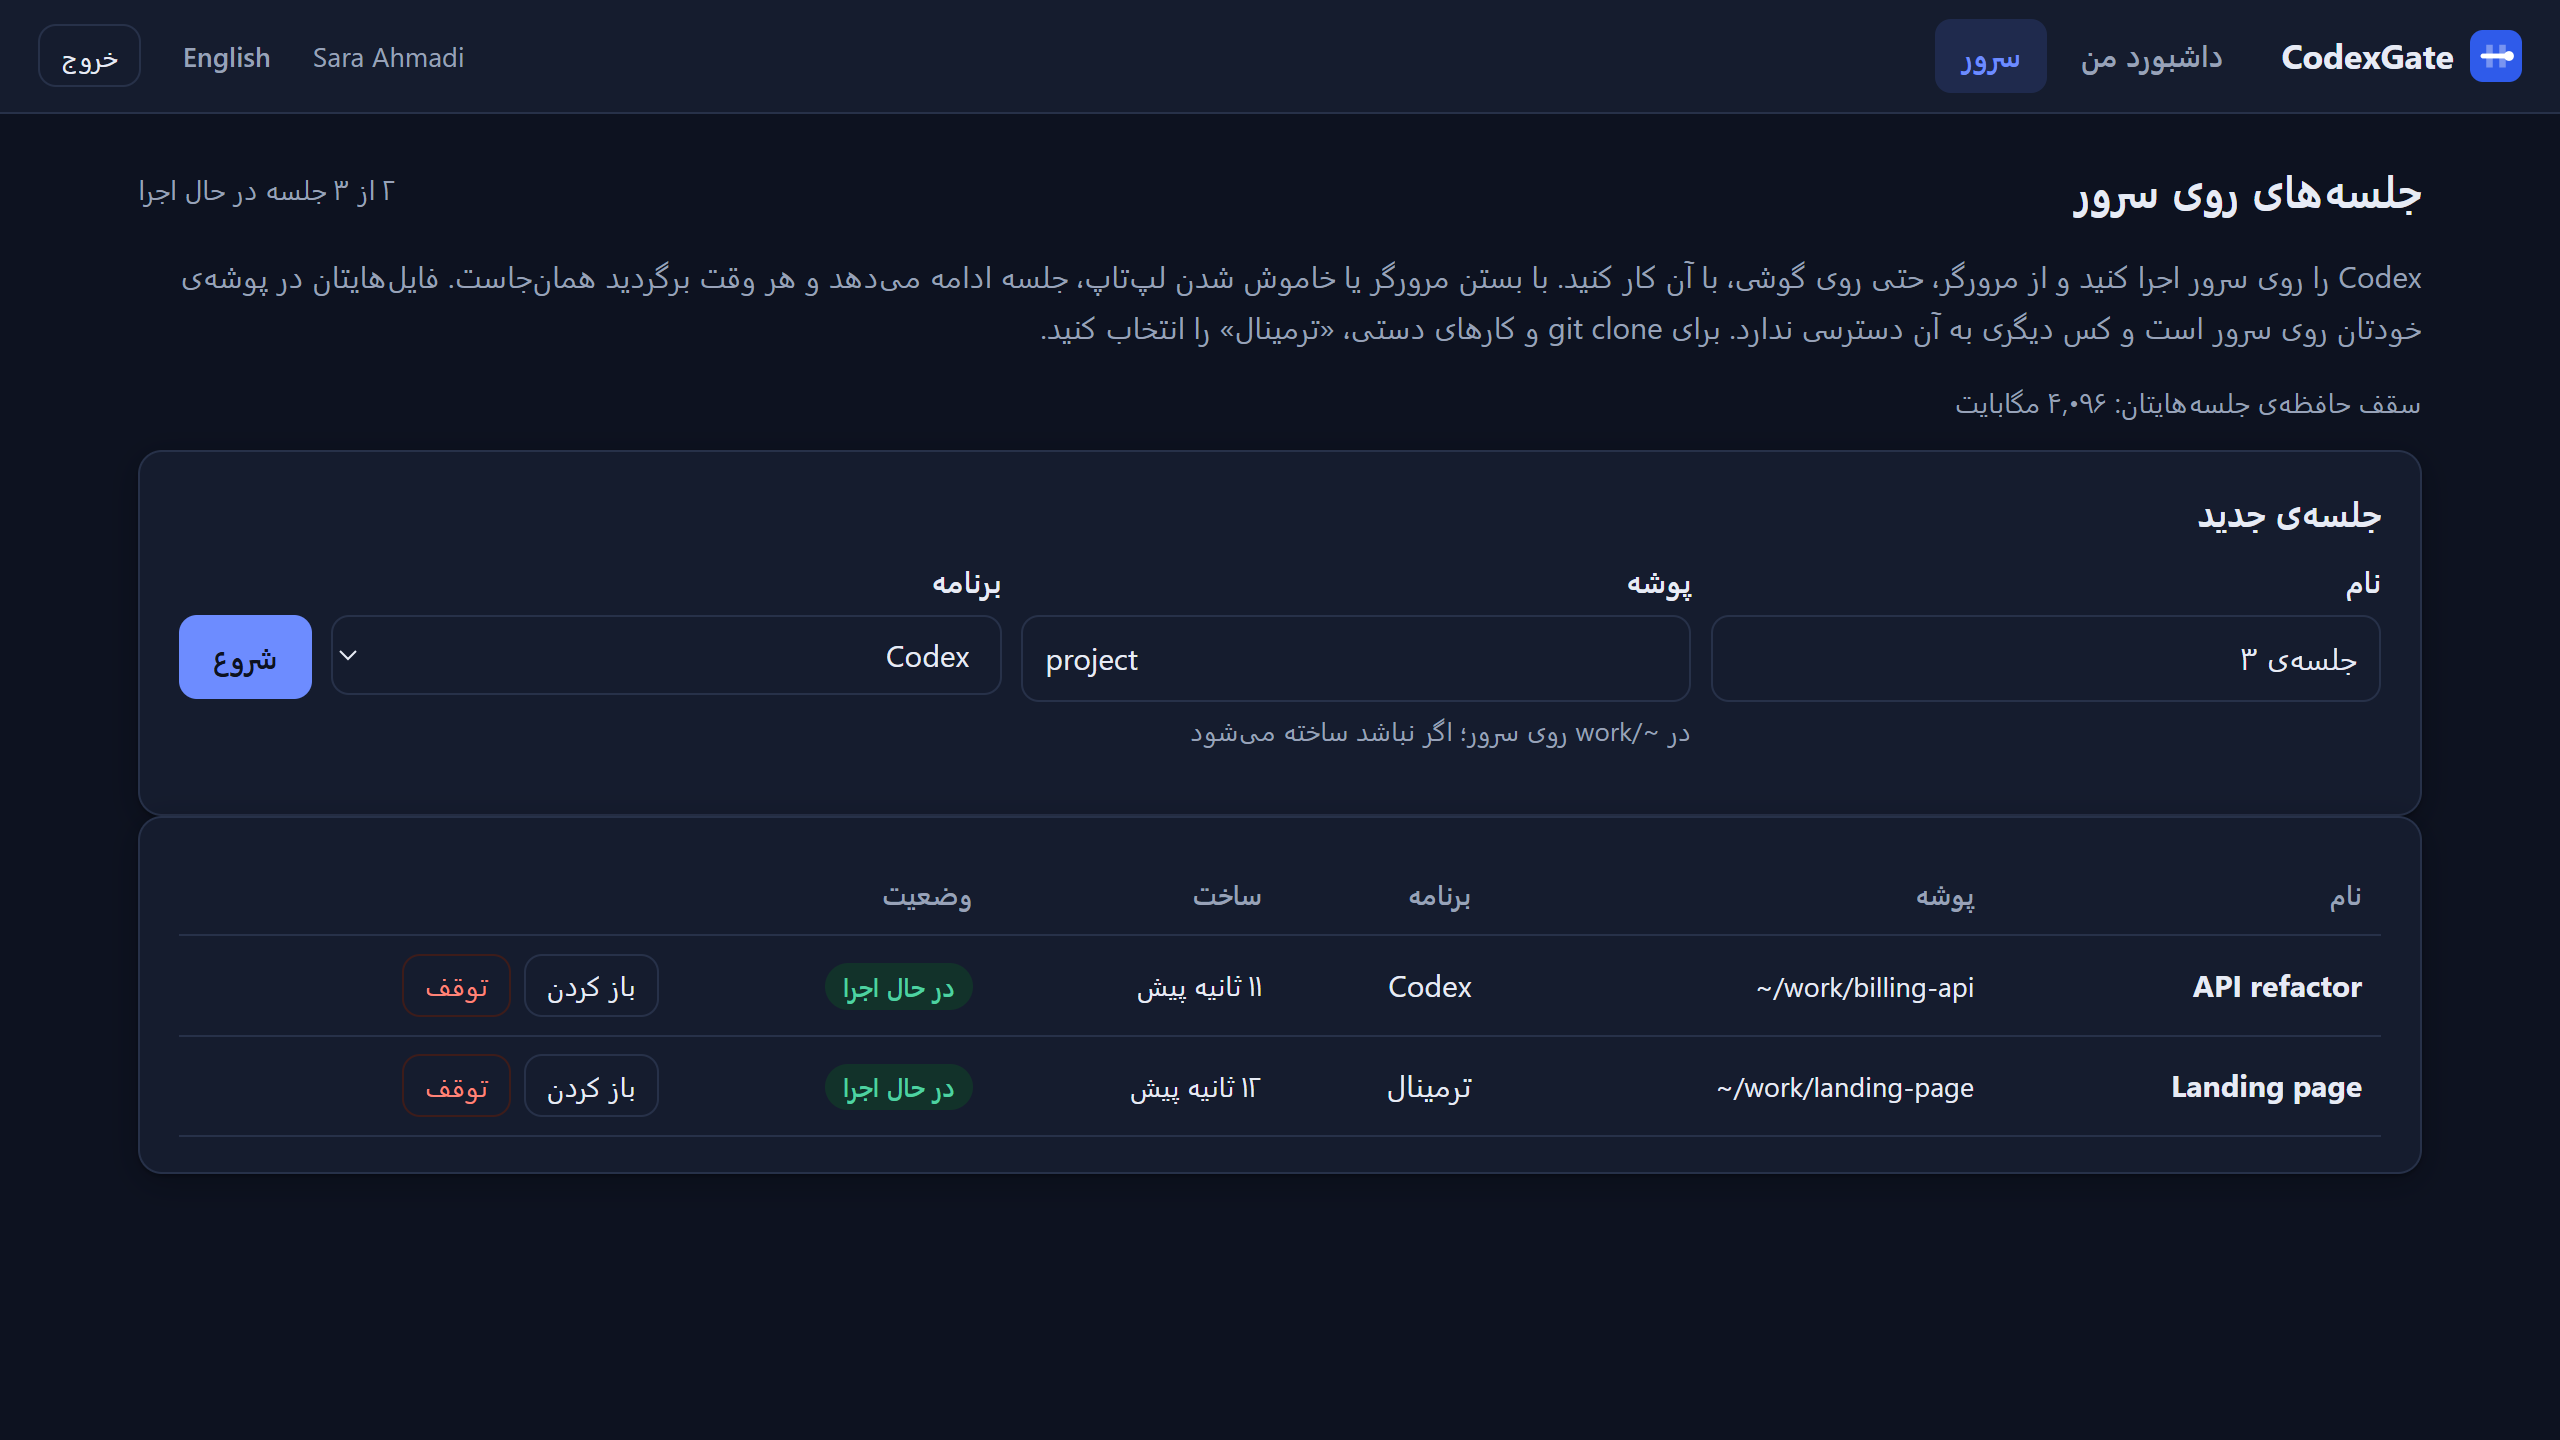
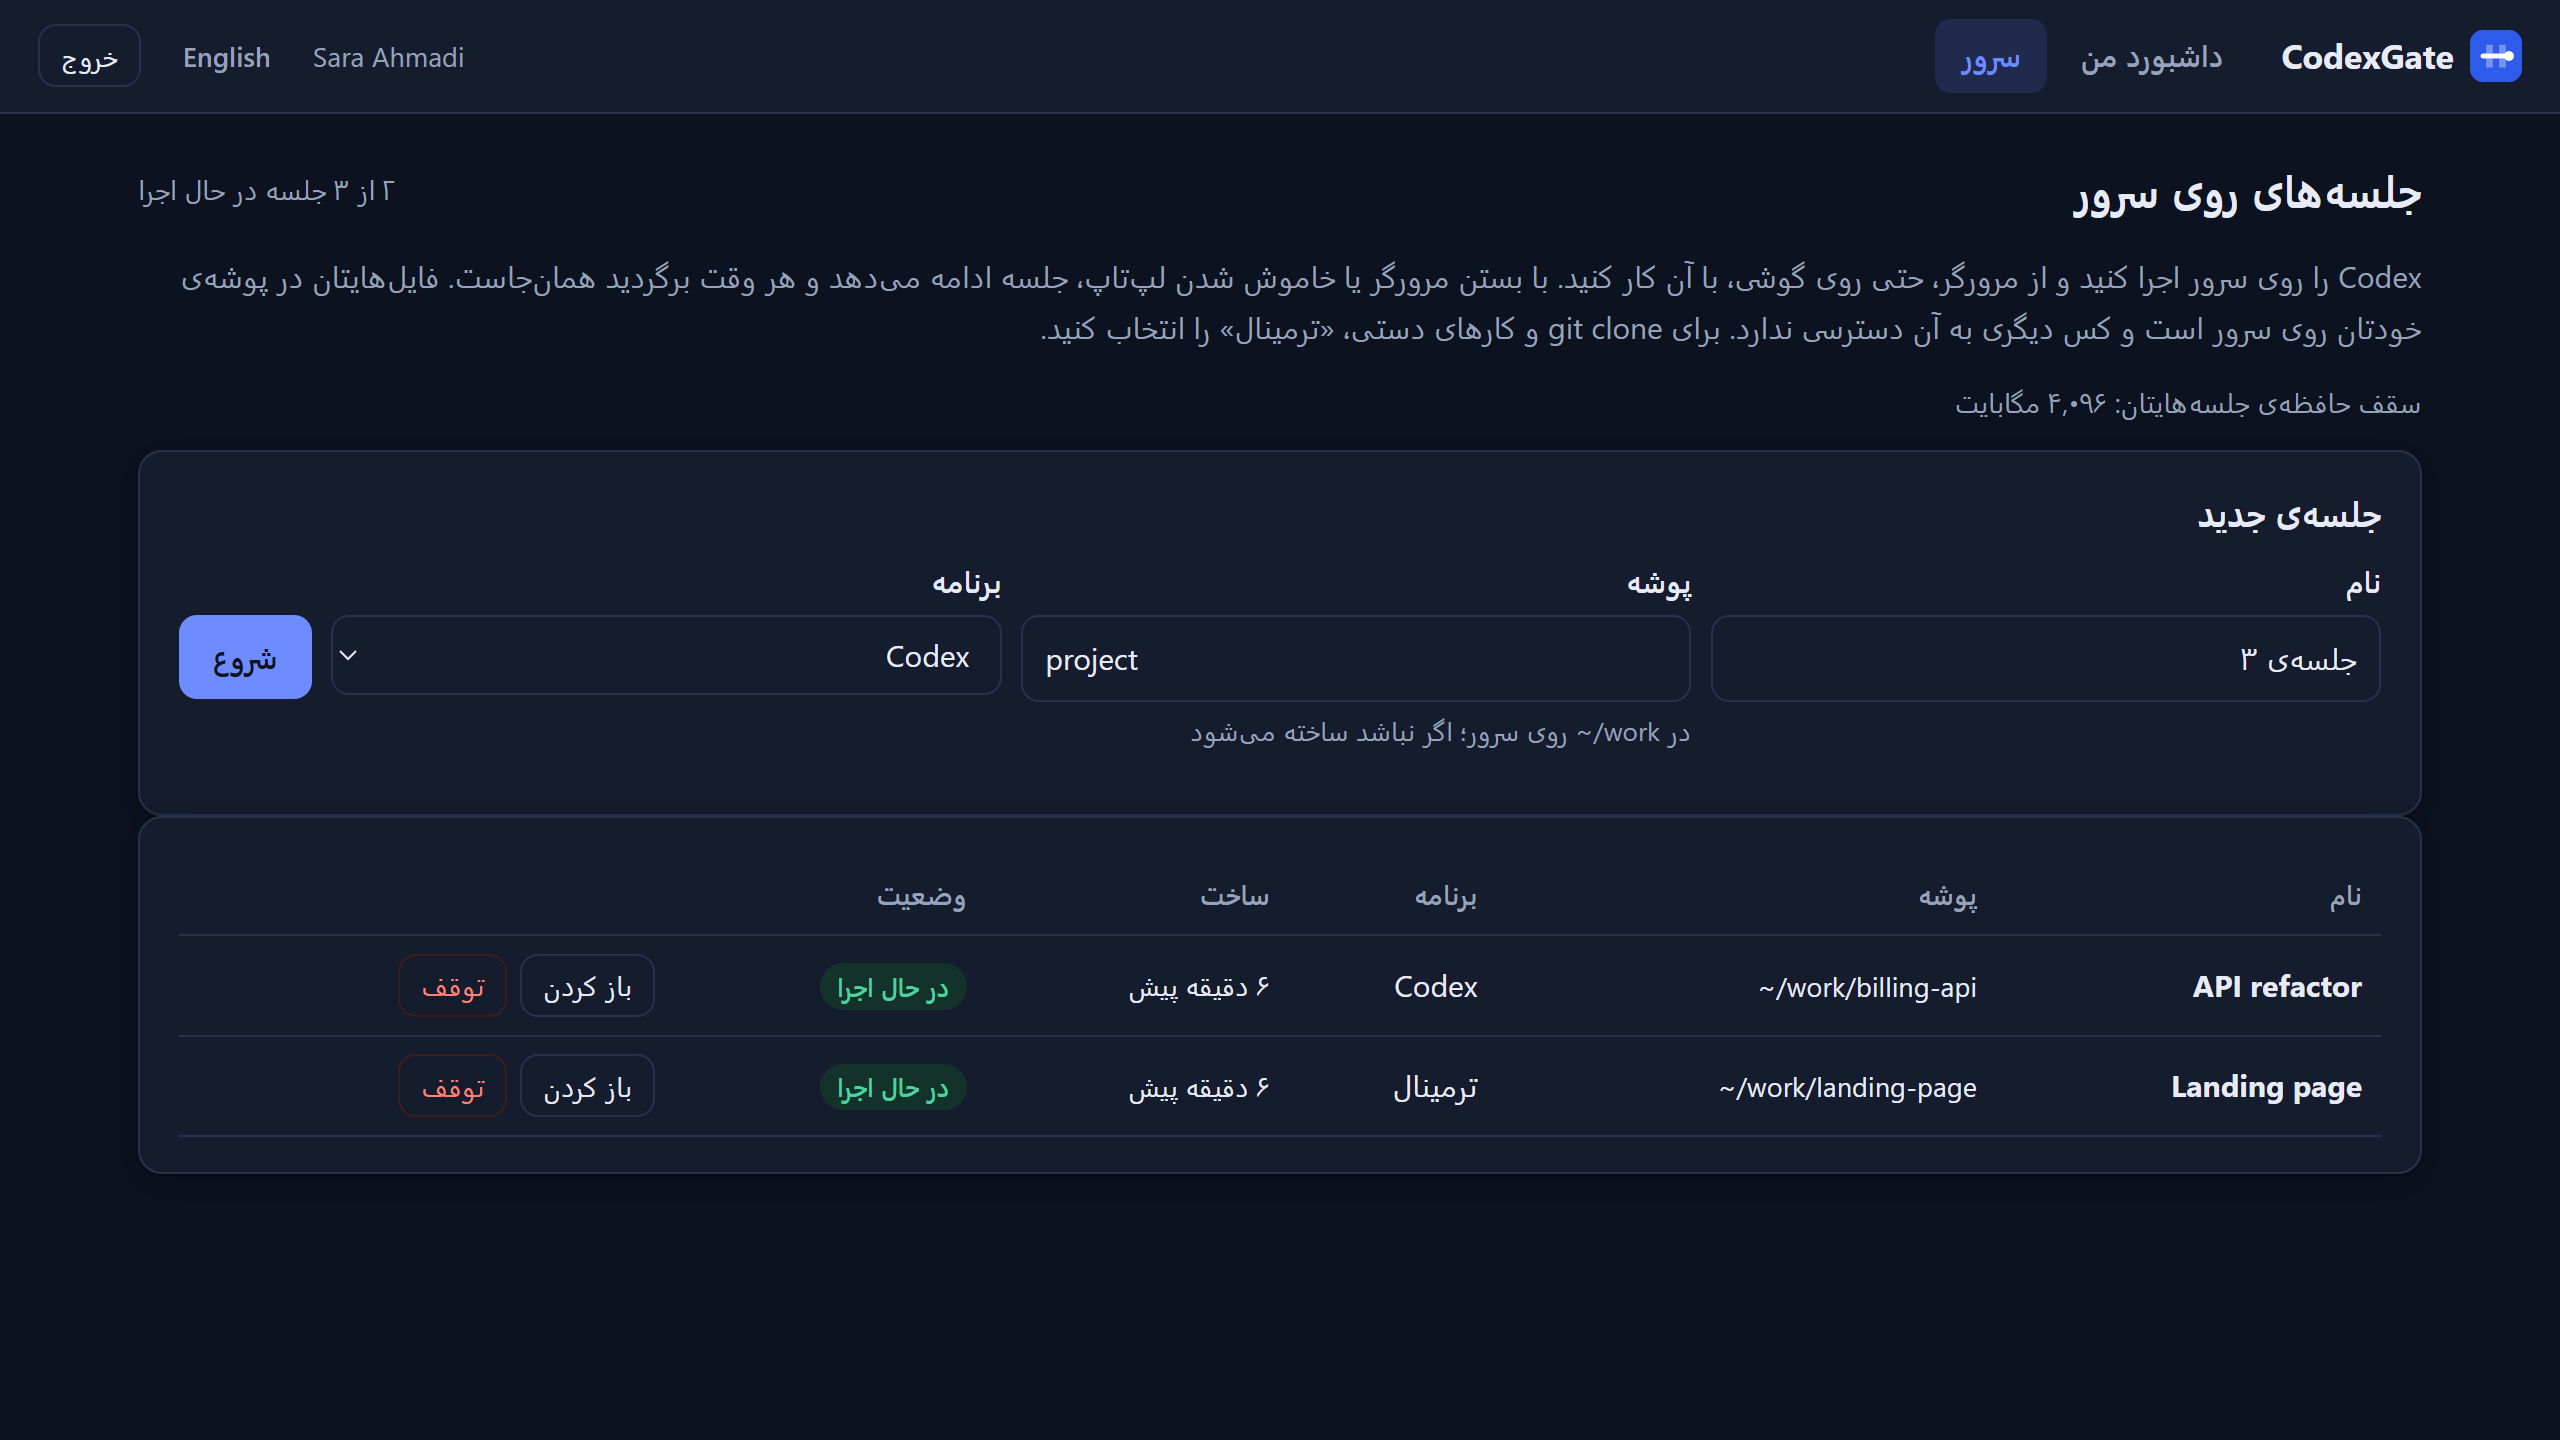
README: server-session screenshots; Persian help keeps ~/work left-to-right

diff --git a/README.fa.md b/README.fa.md
@@ -69,6 +69,14 @@ flowchart LR
     <td align="center"><sub>کاربران در یک نگاه</sub></td>
     <td align="center"><sub>ویرایش پلن</sub></td>
   </tr>
+  <tr>
+    <td><img src="docs/screenshots/server-fa-dark.png" alt="جلسههای روی سرور"></td>
+    <td><img src="docs/screenshots/terminal-en-dark.png" alt="ترمینال جلسهی سرور در مرورگر"></td>
+  </tr>
+  <tr>
+    <td align="center"><sub>جلسههای روی سرور</sub></td>
+    <td align="center"><sub>Codex روی سرور، داخل مرورگر</sub></td>
+  </tr>
 </table>
 
 ## راهاندازی سریع

diff --git a/README.md b/README.md
@@ -82,6 +82,14 @@ flowchart LR
     <td align="center"><sub>A new key with its setup command</sub></td>
     <td align="center"><sub>Persian, right-to-left, dark</sub></td>
   </tr>
+  <tr>
+    <td><img src="docs/screenshots/terminal-en-dark.png" alt="A session on the server in the web terminal"></td>
+    <td><img src="docs/screenshots/server-fa-dark.png" alt="Server sessions: start, open, stop"></td>
+  </tr>
+  <tr>
+    <td align="center"><sub>Codex on the server, in the browser</sub></td>
+    <td align="center"><sub>Server sessions (Persian)</sub></td>
+  </tr>
 </table>
 
 ## Quick start
